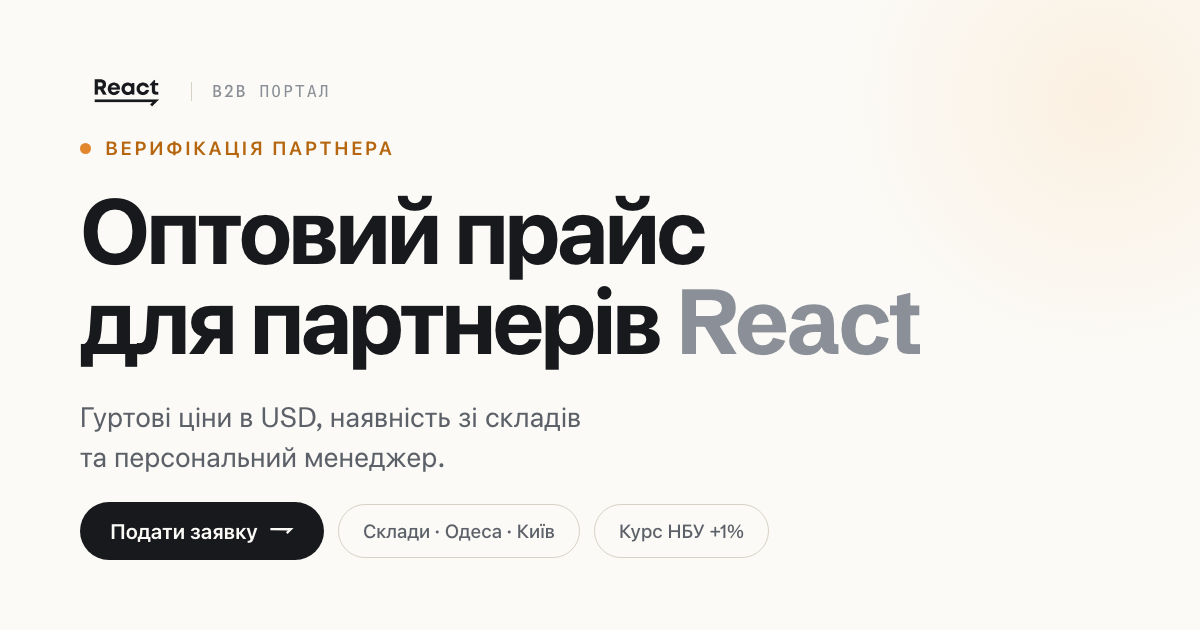
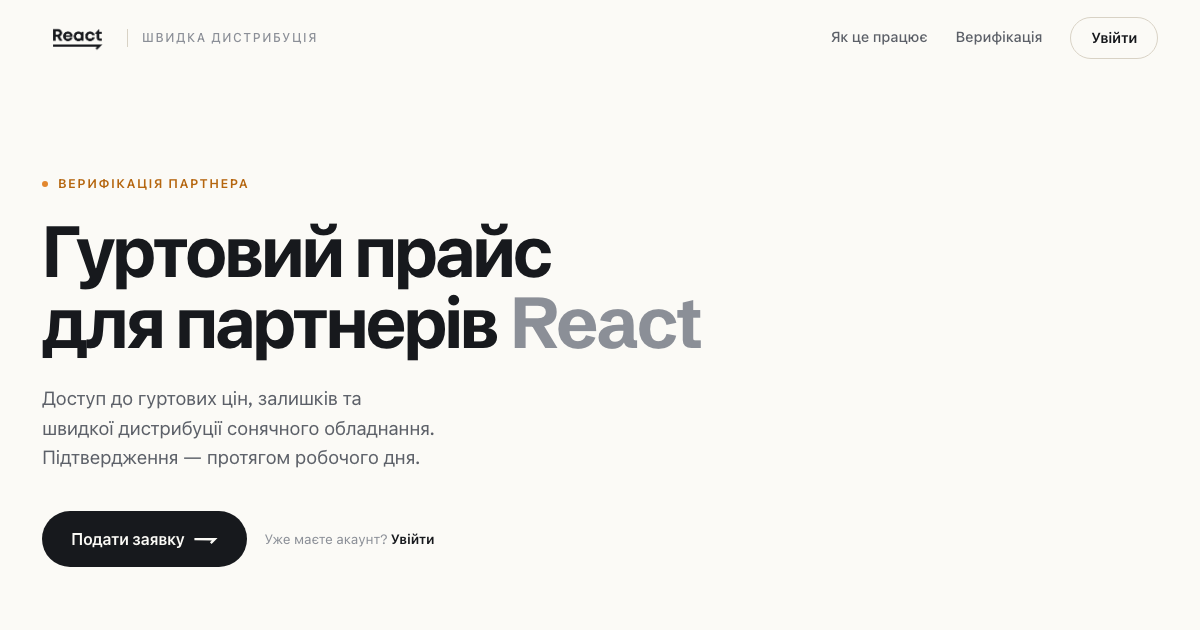
verify: «Оптовий» → «Гуртовий» + OG-картинка з поточної сторінки (v2)
- hero/meta/og-description: Оптовий → Гуртовий
- og:image оновлено реальним скріном поточного hero (1200×630), ?v=2

diff --git a/verify.html b/verify.html
@@ -11,19 +11,19 @@ gtag('js', new Date());
 gtag('config', 'G-8P7TF4SV17');
 </script>
 <title>React — Верифікація партнера</title>
-<meta name="description" content="Оптовий доступ для партнерів React. Гуртові ціни в USD, наявність зі складів Одеса · Київ, швидка дистрибуція. Подати заявку на верифікацію." />
+<meta name="description" content="Гуртовий доступ для партнерів React. Ціни в USD, наявність зі складів Одеса · Київ, швидка дистрибуція. Подати заявку на верифікацію." />
 <meta name="robots" content="noindex" />
 <meta property="og:type" content="website" />
 <meta property="og:url" content="https://react.ink/verify" />
 <meta property="og:site_name" content="React" />
 <meta property="og:title" content="React — Верифікація партнера" />
-<meta property="og:description" content="Оптовий доступ для партнерів · гуртові ціни · склади Одеса · Київ" />
-<meta property="og:image" content="https://react.ink/assets/og-verify.png?v=1" />
+<meta property="og:description" content="Гуртовий доступ для партнерів · ціни в USD · склади Одеса · Київ" />
+<meta property="og:image" content="https://react.ink/assets/og-verify.png?v=2" />
 <meta property="og:image:width" content="1200" />
 <meta property="og:image:height" content="630" />
 <meta name="twitter:card" content="summary_large_image" />
 <meta name="twitter:title" content="React — Верифікація партнера" />
-<meta name="twitter:image" content="https://react.ink/assets/og-verify.png?v=1" />
+<meta name="twitter:image" content="https://react.ink/assets/og-verify.png?v=2" />
 <link rel="preconnect" href="https://fonts.googleapis.com" />
 <link rel="preconnect" href="https://fonts.gstatic.com" crossorigin />
 <link href="https://fonts.googleapis.com/css2?family=Schibsted+Grotesk:wght@400;500;600;700;800&family=Spline+Sans+Mono:wght@400;500&display=swap" rel="stylesheet" />
@@ -344,7 +344,7 @@ gtag('config', 'G-8P7TF4SV17');
     <div class="wrap">
       <div class="hero__grid--single">
         <span class="eyebrow"><span class="dot"></span>Верифікація партнера</span>
-        <h1 class="hero__title">Оптовий прайс<br />для партнерів <span class="muted">React</span></h1>
+        <h1 class="hero__title">Гуртовий прайс<br />для партнерів <span class="muted">React</span></h1>
         <p class="hero__sub">Доступ до гуртових цін, залишків та швидкої дистрибуції сонячного обладнання. Підтвердження — протягом робочого дня.</p>
         <div class="hero__cta">
           <a class="btn btn--solid btn--lg" href="#verify">Подати заявку <span class="arr" data-arrow></span></a>

diff --git a/og-verify-src.html b/og-verify-src.html
@@ -62,7 +62,7 @@
 
   <div class="mid">
     <span class="eyebrow"><span class="dot"></span>Верифікація партнера</span>
-    <h1>Оптовий прайс<br />для партнерів <span class="muted">React</span></h1>
+    <h1>Гуртовий прайс<br />для партнерів <span class="muted">React</span></h1>
     <p class="sub">Гуртові ціни в USD, наявність зі складів та персональний менеджер.</p>
   </div>
 